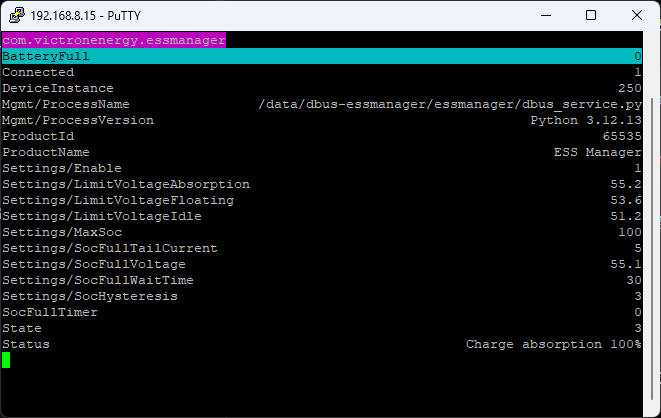
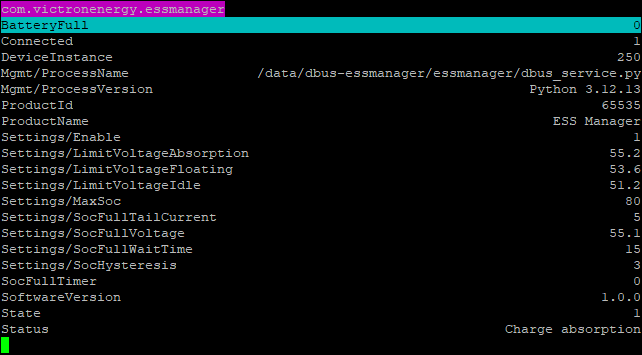
Prepare v1.0.0 release

Changed region(s): [[0.0, 0.0, 1.0, 1.0]]

diff --git a/essmanager/home_assistant_discovery.py b/essmanager/home_assistant_discovery.py
@@ -149,6 +149,19 @@ class HomeAssistantDiscovery:
             "entity_category": "diagnostic",
         }
 
+        components["software_version"] = {
+            "platform": "sensor",
+            "name": "Software version",
+            "unique_id": "ess_manager_software_version",
+            "default_entity_id": (
+                "sensor.ess_manager_software_version"
+            ),
+            "state_topic": self._read_topic("SoftwareVersion"),
+            "value_template": "{{ value_json.value }}",
+            "entity_category": "diagnostic",
+            "icon": "mdi:information-outline",
+        }
+        
         return {
             "device": {
                 "identifiers": [self._device_id],

diff --git a/essmanager/dbus_service.py b/essmanager/dbus_service.py
@@ -13,6 +13,7 @@ except ImportError:
 
 from essmanager import constants
 from essmanager.setting_definitions import SETTING_DEFINITIONS
+from essmanager.version import __version__
 
 
 sys.path.insert(
@@ -110,6 +111,11 @@ class DBusService:
         self.service.add_path(
             "/Mgmt/ProcessName",
             __file__,
+        )
+
+        self.service.add_path(
+            "/SoftwareVersion",
+            __version__,
         )
 
         self.service.add_path(

diff --git a/essmanager/version.py b/essmanager/version.py
@@ -1,0 +1,1 @@
+__version__ = "1.0.0"
